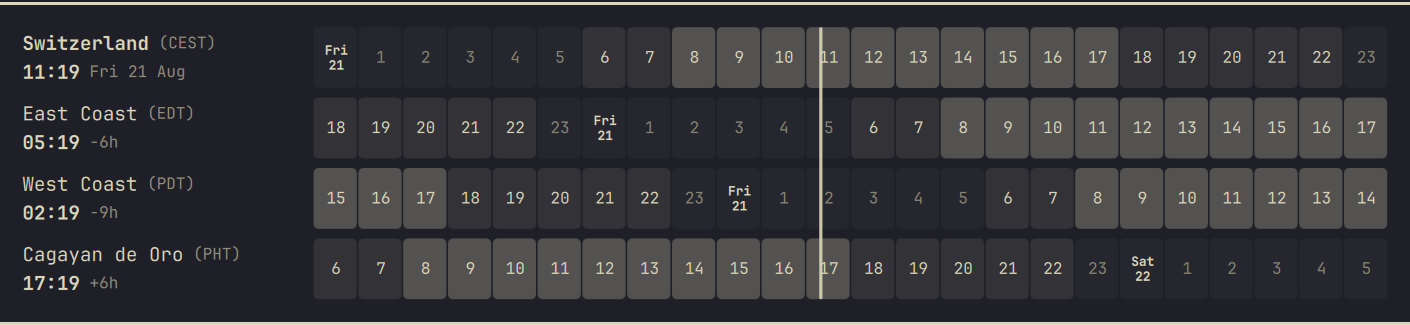
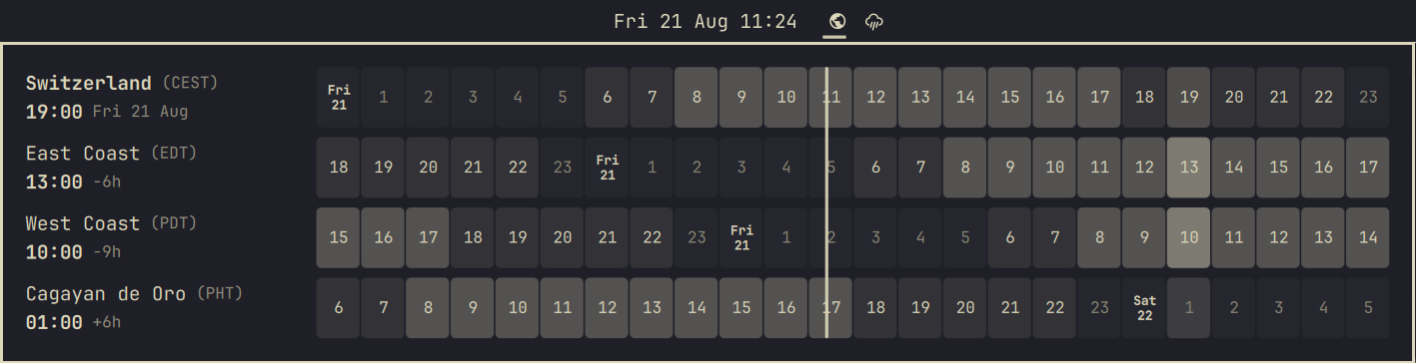
update images

diff --git a/README.md b/README.md
@@ -15,6 +15,12 @@ tzdata (`TZ=<zone> date`), so summer/winter time is always correct. The home
 row follows the **system timezone**, so when you travel and update Omarchy's
 timezone, the home row updates with you.
 
+Left Mouse Click Preview:
+![[preview.png]]
+
+Hover Preview:
+![[preview-hover.png]]
+
 ## Install
 
 ```sh
